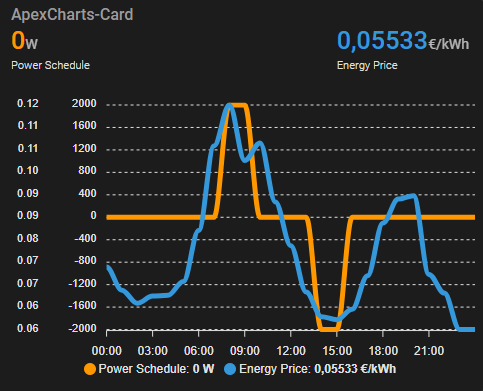
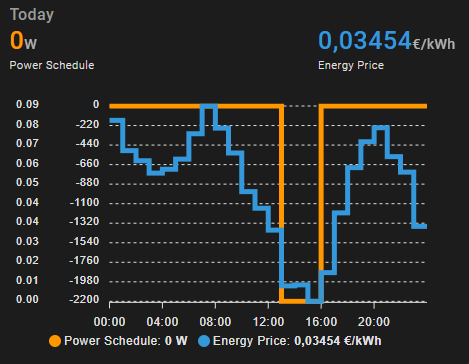
Stepline cures and graph titles

diff --git a/cards/DynamicSchedule.md b/cards/DynamicSchedule.md
@@ -15,7 +15,7 @@ With the [ApexCharts custom card](https://github.com/RomRider/apexcharts-card?ta
 type: custom:apexcharts-card
 header:
   show: true
-  title: ApexCharts-Card
+  title: Today
   show_states: true
   colorize_states: true
 span:
@@ -29,6 +29,7 @@ series:
   - entity: sensor.sessy_XXXX_power_schedule
     yaxis_id: power
     name: Power Schedule
+    curve: stepline
     data_generator: |
       let hours = [];
       for(var i = 0; i < 24; i++){ hours.push(i); }
@@ -41,6 +42,7 @@ series:
   - entity: sensor.sessy_XXXX_energy_price
     yaxis_id: price
     name: Energy Price
+    curve: stepline
     float_precision: 5
     data_generator: |
       let hours = [];
@@ -58,7 +60,7 @@ series:
 type: custom:apexcharts-card
 header:
   show: true
-  title: ApexCharts-Card
+  title: Tomorrow
   show_states: true
   colorize_states: true
 span:
@@ -73,6 +75,7 @@ series:
   - entity: sensor.sessy_XXXX_power_schedule
     yaxis_id: power
     name: Power Schedule
+    curve: stepline
     data_generator: |
       let hours = [];
       for(var i = 0; i < 24; i++){ hours.push(i); }
@@ -85,6 +88,7 @@ series:
   - entity: sensor.sessy_XXXX_energy_price
     yaxis_id: price
     name: Energy Price
+    curve: stepline
     float_precision: 5
     data_generator: |
       let hours = [];
